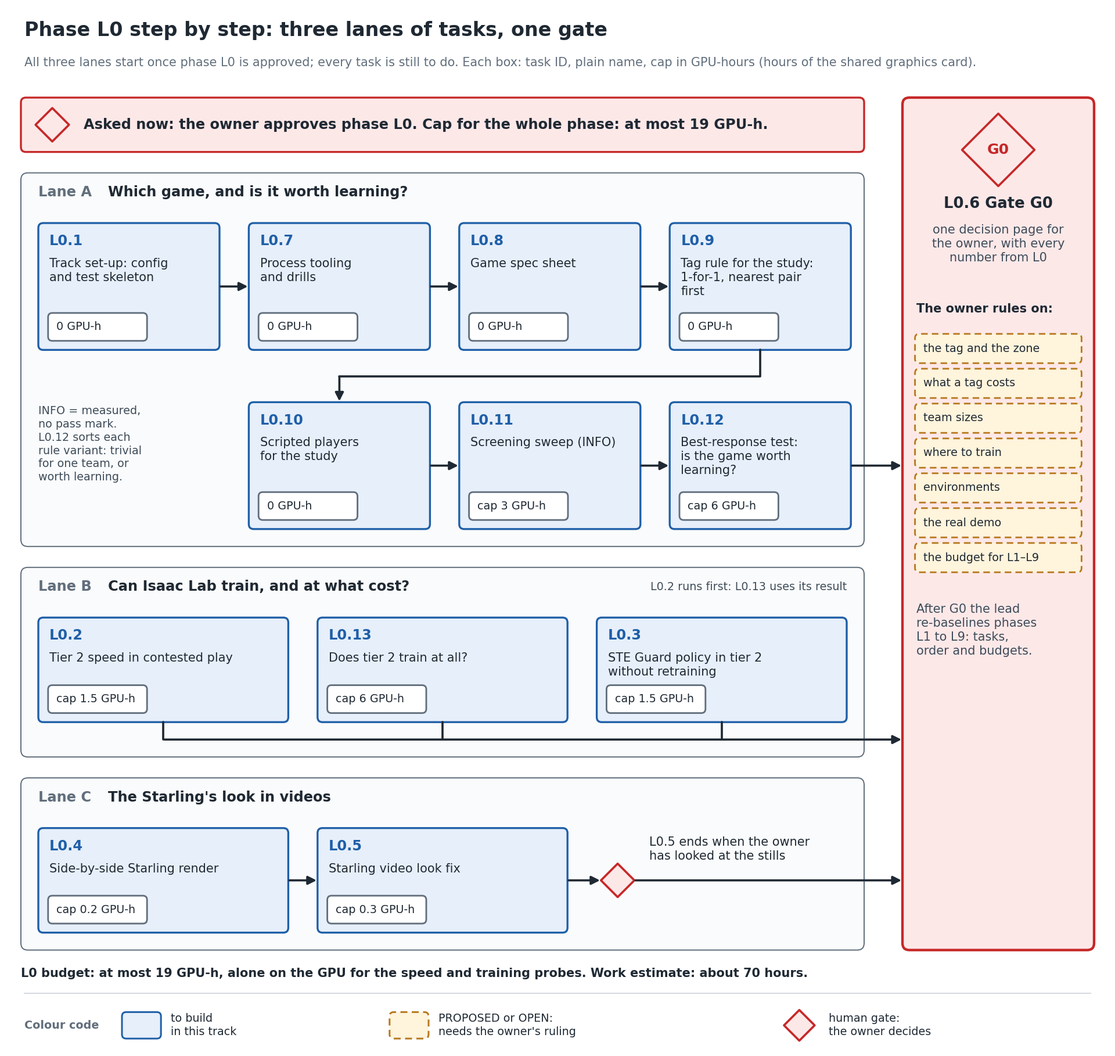
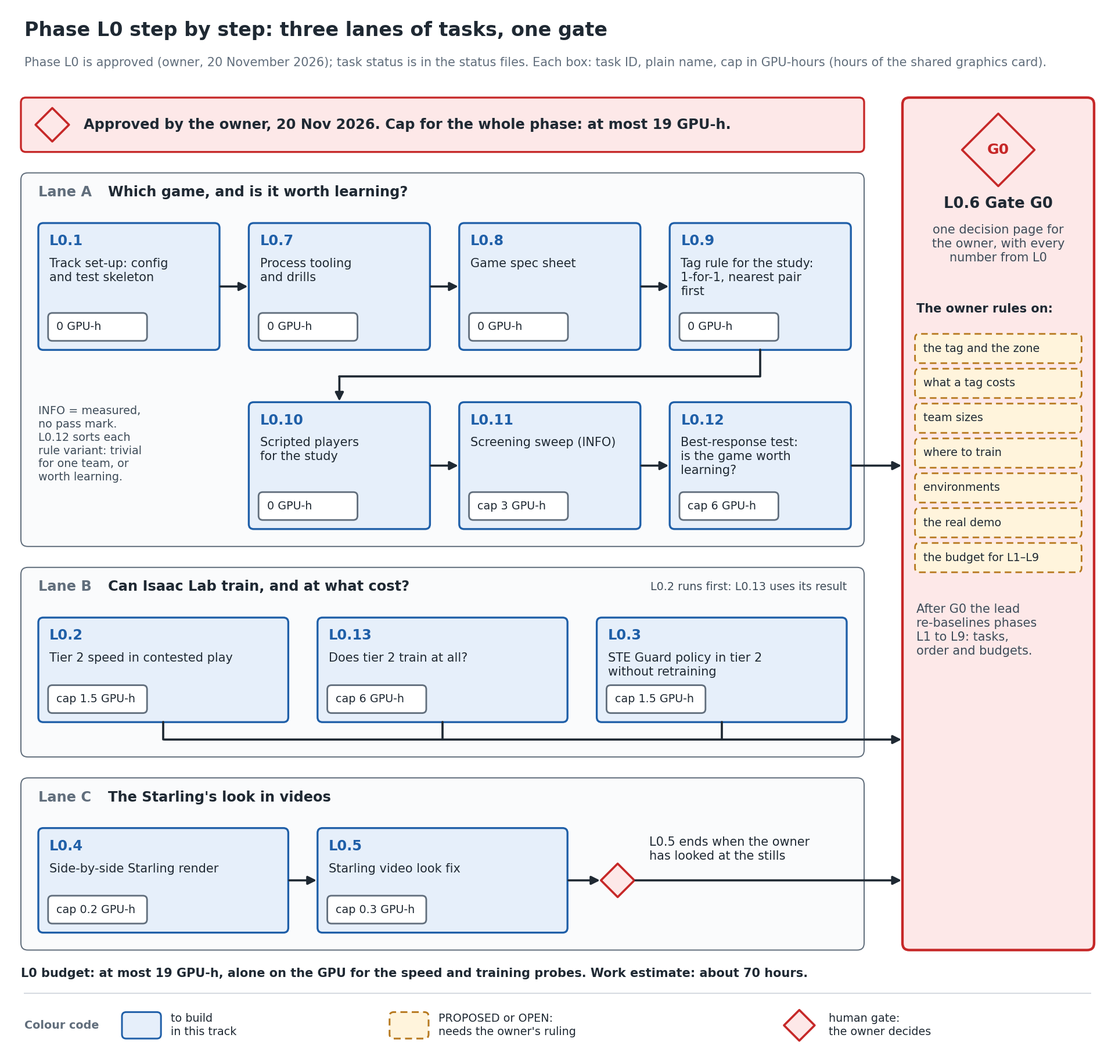
STE learning track: phase L0 approved (owner, 20 Nov 2026); links from the front pages
The owner approved phase L0 (game definition and feasibility, cap 19 GPU-h) on
20 Nov 2026. The approval covers L0 only: no later phase and no PROPOSED value.

- ste_learning/README.md, PLAN.md, the two flowcharts (plan_phases, l0_tasks),
  svg_training/CLAUDE.md and HANDOFF section 0 now say "approved" in place of
  "awaits approval"; the first status file (status/STATUS_LATEST.md, LOG.md)
  is written in the owner's three-table format.
- svg_training/README.md section 7: the stale "decision pending" sentence is
  replaced by a pointer to ste_learning/.
- Outside svg_training/ (owner-approved, 20 Nov 2026): README.md gets one row
  in "I want to..." and one sentence in its svg_training/ row, both pointing at
  svg_training/ste_learning/README.md. Nothing else outside the folder changes.

No code path, config value, gate or result changes.

Changed region(s): [[0.0938, 0.0924, 0.6875, 0.1232], [0.4375, 0.0308, 0.8438, 0.0616], [0.0312, 0.0308, 0.375, 0.0616]]

diff --git a/svg_training/scripts/make_ste_learning_figures.py b/svg_training/scripts/make_ste_learning_figures.py
@@ -341,7 +341,7 @@ def architecture() -> Path:
 def plan_phases() -> Path:
     """The plan: phases L0 to L9 (PLAN.md section 3), the simulator each uses and where each ends.
 
-    L0 is final and awaits approval; L1 to L9 are the intended path, re-baselined at gate G0 with budgets OPEN;
+    L0 is final and approved (owner, 20 Nov 2026); L1 to L9 are the intended path, re-baselined at gate G0 with budgets OPEN;
     L9 (documentation) already runs alongside. The L0 cap of 19 GPU-h is PLAN section 9.
     """
     rows = [  # id, name, content, simulator, ends at, kind, owner gate?
@@ -367,8 +367,8 @@ def plan_phases() -> Path:
     H = 20.0
     fig, ax = new_fig(H)
     header(ax, H, "The plan: phases L0 to L9, their simulators and their gates",
-           "Phase L0 is final and awaits the owner's approval. L1 to L9 are the intended path; "
-           "L9 (documentation) already runs. No build or training work has started.")
+           "Phase L0 is approved (owner, 20 November 2026) and is the phase in work. L1 to L9 are the intended "
+           "path; L9 (documentation) already runs. Task status: the status files.")
     px, pw, sx, sw, gx = 0.6, 8.2, 9.05, 3.2, 12.5
     spine = px + 0.55
 
@@ -388,7 +388,7 @@ def plan_phases() -> Path:
             ax.add_patch(plt.Circle((gx + 0.3, yb + h / 2), 0.13, fc=GREY_BG, ec=GREY, lw=1.8))
         txt(ax, gx + 0.72, yb + h / 2, s, fb, color=INK if owner else BODY, va="center")
 
-    def phase_cell(yb, h, kind, pid, name, content, badge=None):
+    def phase_cell(yb, h, kind, pid, name, content, badge=None, badge_kind="open"):
         fc, ec, ls = KIND[kind]
         box(ax, px, yb, pw, h, fc, ec, lw=2.0, ls=ls)
         box(ax, px + 0.15, yb + h - 0.56, 0.78, 0.42, ec, ec, r=0.08, lw=1.0)
@@ -397,23 +397,23 @@ def plan_phases() -> Path:
         txt(ax, px + 1.1, yb + h - 0.63, content, fb, color=BODY, inside=(px, yb, pw, h))
         if badge:
             bw = 3.0
-            chip(ax, px + pw - bw - 0.15, yb + h - 0.56, bw, 0.42, "open", badge, weight="bold")
+            chip(ax, px + pw - bw - 0.15, yb + h - 0.56, bw, 0.42, badge_kind, badge, weight="bold")
 
-    # asked now
+    # approved (owner, 20 Nov 2026)
     h0 = 0.72
     y -= h0
     box(ax, px, y, pw, h0, RED_BG, RED, lw=2.0)
-    txt(ax, px + 0.2, y + h0 / 2, "Asked now: approve phase L0, with a cap of 19 GPU-h", fh, "bold", va="center",
+    txt(ax, px + 0.2, y + h0 / 2, "Approved, 20 Nov 2026: phase L0, with a cap of 19 GPU-h", fh, "bold", va="center",
         inside=(px, y, pw, h0))
-    gate_cell(y, h0, "the owner approves\nphase L0", True)
+    gate_cell(y, h0, "the owner approved\nphase L0", True)
     prev = y
 
     # L0
     hl0 = 1.3
     y -= gap + 0.12 + hl0
-    phase_cell(y, hl0, "open", "L0", "Game definition and feasibility",
+    phase_cell(y, hl0, "build", "L0", "Game definition and feasibility",
                "which game the track trains; is it worth learning;\ncan Isaac Lab train, and at what cost",
-               badge="FINAL, awaiting approval")
+               badge="APPROVED, in work", badge_kind="build")
     sim_cell(y, hl0, "STE game engine (tier 1)\nand Isaac Lab (tier 2)")
     gate_cell(y, hl0, "gate G0", True)
     arrow(ax, (spine, prev), (spine, y + hl0))
@@ -474,7 +474,7 @@ def l0_tasks() -> Path:
     H = 15.15
     fig, ax = new_fig(H)
     header(ax, H, "Phase L0 step by step: three lanes of tasks, one gate",
-           "All three lanes start once phase L0 is approved; every task is still to do. "
+           "Phase L0 is approved (owner, 20 November 2026); task status is in the status files. "
            "Each box: task ID, plain name, cap in GPU-hours (hours of the shared graphics card).")
     lx, lw_ = 0.3, 12.1          # lanes
     gx, gw = 12.95, 2.75         # gate column
@@ -494,11 +494,11 @@ def l0_tasks() -> Path:
         txt(ax, lx + 0.25, y_top - 0.18, title, FS_H, "bold", MUTED)
         txt(ax, lx + 1.25, y_top - 0.18, question, FS_H, "bold")
 
-    # asked now
+    # approved (owner, 20 Nov 2026)
     h0 = 0.78
     box(ax, lx, top - h0, lw_, h0, RED_BG, RED, lw=2.0)
     diamond(ax, lx + 0.45, top - h0 / 2, 0.24)
-    txt(ax, lx + 0.9, top - h0 / 2, "Asked now: the owner approves phase L0. Cap for the whole phase: at most "
+    txt(ax, lx + 0.9, top - h0 / 2, "Approved by the owner, 20 Nov 2026. Cap for the whole phase: at most "
         "19 GPU-h.", FS_H, "bold", va="center", inside=(lx, top - h0, lw_, h0))
 
     # lane A: two rows of four and three

diff --git a/svg_training/docs/claude/HANDOFF.md b/svg_training/docs/claude/HANDOFF.md
@@ -4,7 +4,7 @@ INTERNAL · the lab's AI-assistant hand-over notes. Not needed to read or run an
 
 > **How to use this file.** Read it at the start of a session, after [../../CLAUDE.md](../../CLAUDE.md).
 > §4 is the current state, §5 is what is waiting on people. Update both before you stop.
-> Last updated: 20 November 2026, on the home RTX 5090 (STE learning track note at the top of §0; laptop takeover note below it), worktree `~/AirStack-starling-max2-naming`, branch `docs-naming` (owner-approved naming and story pass on the public docs; committed, not pushed, not merged). Before: 19 November 2026, ~00:30, on the home RTX 5090, release worktree `~/AirStack-starling-max2-release`, branch `nus-release` (plain-laptop CPU route: code fixes C1–C9 and the PROVISIONAL bundle `nus_provisional/`, owner decision 6; committed, not pushed). Before: 18 November 2026, ~15:15, on the home RTX 5090, NUS-port worktree `~/AirStack-starling-max2-nus-port`, branch `phase6-pass2` (Phase 6 pass 2B: **Phase 4 complete**, its results written into every doc, every NUS-port clip published, the hangar size restored, the Phase 5 plan described; uncommitted, the lead commits). Before: ~06:45, on the home RTX 5090, integration worktree `main-5090` (Phase 6 pass 1: public NUS docs, privacy rails rewritten to the owner's decision, Claude files touched up; Phase 4 rows 4–6 running). Before: ~05:30 (Phase 4: T17 PASS, rungs 1 to 3 scored, rungs 4 to 6 not run). Before: ~01:00 (Phase 3 T16 PASS). Before: 17 November 2026, ~22:30, on the home RTX 5090 (evening summary in §0). Before: ~07:00 (morning summary in §0). Before: ~05:30 (S2b Tasks 1–8 done (T13 FAIL, over/under passing), 9 Isaac seeds running, 10 docs being written, 8b deferred; see §0 S2b line). Before: ~03:00. Earlier: 16 November morning (**S2 CLOSED**: final whole-stage review done on Opus, one fix wave 4d0d409, wording c218cbb; owner ruled A and B; S2b plan approved and ready to start).
+> Last updated: 20 November 2026 ~12:30, on the home RTX 5090 (the owner approved phase L0 of the STE learning track: note at the top of §0; laptop takeover note below it), worktree `~/AirStack-starling-max2-naming`, branch `docs-naming` (owner-approved naming and story pass on the public docs; committed, not pushed, not merged). Before: 19 November 2026, ~00:30, on the home RTX 5090, release worktree `~/AirStack-starling-max2-release`, branch `nus-release` (plain-laptop CPU route: code fixes C1–C9 and the PROVISIONAL bundle `nus_provisional/`, owner decision 6; committed, not pushed). Before: 18 November 2026, ~15:15, on the home RTX 5090, NUS-port worktree `~/AirStack-starling-max2-nus-port`, branch `phase6-pass2` (Phase 6 pass 2B: **Phase 4 complete**, its results written into every doc, every NUS-port clip published, the hangar size restored, the Phase 5 plan described; uncommitted, the lead commits). Before: ~06:45, on the home RTX 5090, integration worktree `main-5090` (Phase 6 pass 1: public NUS docs, privacy rails rewritten to the owner's decision, Claude files touched up; Phase 4 rows 4–6 running). Before: ~05:30 (Phase 4: T17 PASS, rungs 1 to 3 scored, rungs 4 to 6 not run). Before: ~01:00 (Phase 3 T16 PASS). Before: 17 November 2026, ~22:30, on the home RTX 5090 (evening summary in §0). Before: ~07:00 (morning summary in §0). Before: ~05:30 (S2b Tasks 1–8 done (T13 FAIL, over/under passing), 9 Isaac seeds running, 10 docs being written, 8b deferred; see §0 S2b line). Before: ~03:00. Earlier: 16 November morning (**S2 CLOSED**: final whole-stage review done on Opus, one fix wave 4d0d409, wording c218cbb; owner ruled A and B; S2b plan approved and ready to start).
 
 ## 0. Resume here (for a new session or another Claude account)
 
@@ -12,7 +12,7 @@ Everything needed is in this folder; nothing depends on the previous chat. Claud
 the private NUS workspace (`~/ma_skills-self-play/`, 5090 only) do **not** travel with git: if this file and a memory
 note disagree, this file wins.
 
-### STE LEARNING TRACK PLANNED, 20 November 2026 — read this first for anything after the NUS port
+### STE LEARNING TRACK: PHASE L0 APPROVED, 20 November 2026 — read this first for anything after the NUS port
 
 The owner set a new direction on 19–20 Nov: **STE trains its own Guard and Strike policies, in parallel with NUS**
 (the NUS route is paused, lead call D8). Everything is in [`ste_learning/`](../../ste_learning/README.md): the README (what is
@@ -20,9 +20,14 @@ being built, the plan, phase L0 step by step, four flowcharts), `PLAN.md` (versi
 review), `DISCUSSION_2026-11-19_20.md` (every question, decision D1–D9 and open item P1–P12), the track's STANDARDS,
 reference pages and five agents (`ste-*`, copied into `.claude/agents/`).
 
-- **State:** nothing built, nothing run. **Phase L0 (game definition and feasibility, cap 19 GPU-h) awaits the owner's
-  approval**; it ends at gate G0, where the owner rules on the tag and zone, what a tag costs, team sizes, where to
+- **State:** **phase L0 (game definition and feasibility, cap 19 GPU-h) APPROVED by the owner, 20 Nov 2026** (L0 only:
+  no later phase, no PROPOSED value); task status in `ste_learning/status/STATUS_LATEST.md`. L0 ends at gate G0, where the owner rules on the tag and zone, what a tag costs, team sizes, where to
   train, environments, the demo and the L1–L9 budget.
+- **Links (owner, 20 Nov 2026):** the root `README.md` ("I want to…" row and one sentence in its `svg_training/` row) and
+  the training `README.md` §7 now point at `ste_learning/README.md`. The root `CLAUDE.md` row for this folder still says
+  "Phase 5 planned": not approved for change, proposed to the owner.
+- **Status files:** `ste_learning/status/STATUS_LATEST.md` (overwritten) and `LOG.md` (append-only), first written 20 Nov.
+- **Heartbeat:** the owner did not answer the heartbeat question; the standing rule holds (full status every 30 min).
 - **Why L0 exists:** the review found that the proposed rules (1.6 m proximity tag, 1-for-1) may let head-count decide
   the game, that the zone radius equals the tag radius, that the programme's sizes are 2v1 and 5v3 (not 3v3), and that
   tier 2 has never trained anything (PLAN §2, F1–F10).

diff --git a/svg_training/CLAUDE.md b/svg_training/CLAUDE.md
@@ -6,8 +6,8 @@ Training pipeline for the **Strike vs Guard** game: thousands of games run at on
 drone teams can learn strategies that then fly through AirStack on Starling 2 Max drones.
 It is a sibling of `AirStack/`, `tools/` and `localisation/`, and it edits none of them.
 
-**Status (2026-11-19).** S0, S1 and S2 closed; S2b built through Task 8, not closed; NUS port Phases 1–4 done,
-Phase 5 in progress (R0 T29, N0 T30 and C0 T33 PASS; 5.1 FAIL T43: route (b) stops; STE Guard policy T41 829/1000); **STE's own learning track planned (20 Nov): phase L0 awaits the owner's approval, nothing built or run ([ste_learning/](ste_learning/README.md))**; nothing of ours trained into a strategy; nothing flown.
+**Status (2026-11-20).** S0, S1 and S2 closed; S2b built through Task 8, not closed; NUS port Phases 1–4 done,
+Phase 5 in progress (R0 T29, N0 T30 and C0 T33 PASS; 5.1 FAIL T43: route (b) stops; STE Guard policy T41 829/1000); **STE's own learning track: phase L0 approved by the owner (20 Nov, cap 19 GPU-h), in work; status in `ste_learning/status/STATUS_LATEST.md` ([ste_learning/](ste_learning/README.md))**; nothing of ours trained into a strategy; nothing flown.
 
 | Work | Where it stands | Read |
 |---|---|---|
@@ -26,7 +26,7 @@ Phase 5 in progress (R0 T29, N0 T30 and C0 T33 PASS; 5.1 FAIL T43: route (b) sto
 | [docs/README.md](docs/README.md) | map of every page with its label (Read, Reference, Lab operations, Internal) and the history |
 | [docs/WHAT_WE_FOUND.md](docs/WHAT_WE_FOUND.md), [docs/RUN_IT_YOURSELF.md](docs/RUN_IT_YOURSELF.md), [docs/TRAIN_A_GUARD.md](docs/TRAIN_A_GUARD.md) | the NUS port's results; the verified run-it-yourself commands; the recipe behind the STE Guard policy (T41) |
 | [docs/claude/HANDOFF.md](docs/claude/HANDOFF.md) | where the work stands, what was decided, what is waiting on whom |
-| [ste_learning/](ste_learning/README.md) | **STE's own learning track** (owner, 20 Nov 2026): README with flowcharts, [PLAN](ste_learning/PLAN.md) (the working plan: phase L0 final, gate G0, L1–L9 intended), [DISCUSSION](ste_learning/DISCUSSION_2026-11-19_20.md) (why; D1–D9, P1–P12), the track's STANDARDS, ARCHITECTURE, CODING_PRACTICES, AUTOMATION, VALIDATION_QC, and its agents (`ste-*`). Read it before any work on the track; consult the advisor at every key point (owner) |
+| [ste_learning/](ste_learning/README.md) | **STE's own learning track** (owner, 20 Nov 2026): README with flowcharts, [PLAN](ste_learning/PLAN.md) (the working plan: phase L0 approved 20 Nov, gate G0, L1–L9 intended), [DISCUSSION](ste_learning/DISCUSSION_2026-11-19_20.md) (why; D1–D9, P1–P12), the track's STANDARDS, ARCHITECTURE, CODING_PRACTICES, AUTOMATION, VALIDATION_QC, and its agents (`ste-*`). Read it before any work on the track; consult the advisor at every key point (owner) |
 | [STANDARDS.md](STANDARDS.md) | **the rules**: scope, wording, policy interface, game specification, drone models, gates, records, code, git |
 | [docs/DESIGN.md](docs/DESIGN.md) | the design: seven stages, two tiers, four uses, environments and contact tags, build order S0–S5, approaches considered |
 | [docs/RESEARCH.md](docs/RESEARCH.md) | state of the art as of 14 November 2026, with sources; the evidence behind the design |
@@ -133,6 +133,8 @@ needs is in this folder's committed files (HANDOFF first).
   else outside this folder.
   Approved (owner, 18 November 2026): a one-line banner under the root `README.md`'s H1 pointing at
   `svg_training/README.md` (option A text).
+  Approved (owner, 20 November 2026): one more row in the root `README.md` "I want to…" table and one sentence in its
+  `svg_training/` row, both pointing at `ste_learning/README.md`.
 - Ledger rows written on the 5090 are W numbers; the lead renumbers them to the next T numbers at merge
   (records/README.md explains this to readers).
 - Reader pages (label Read in docs/README.md): neutral and factual, like a short technical report; no "you"/"your" and no

diff --git a/svg_training/ste_learning/PLAN.md b/svg_training/ste_learning/PLAN.md
@@ -1,6 +1,7 @@
 INTERNAL · the master plan of STE's learning track, version 2 (20 Nov 2026, after the independent soundness review).
-**Phase L0 is final and awaits the owner's approval. Phases L1–L9 are the intended path; they are re-baselined at gate
-G0, the end of L0, and their budgets are OPEN.** Nothing has started. Where this page and a reference page differ,
+**Phase L0 is final and APPROVED (owner, 20 Nov 2026: L0 only, cap 19 GPU-h). Phases L1–L9 are the intended path; they
+are re-baselined at gate G0, the end of L0, and their budgets are OPEN.** The approval covers no PROPOSED value (the
+1.6 m tag, the 0.2 band) and no phase after L0. Task status: `status/STATUS_LATEST.md`. Where this page and a reference page differ,
 this page wins. Why each choice: [DISCUSSION](DISCUSSION_2026-11-19_20.md).
 
 # PLAN: STE learning track
@@ -65,7 +66,7 @@ asked to be stopped for.
 
 | Phase | Status | What | Math library | Simulator | Ends at |
 |---|---|---|---|---|---|
-| **L0 Game definition and feasibility** | **FINAL, awaiting approval** | which game the track trains; is it worth learning; can tier 2 train, and at what cost | PyTorch | STE game engine (tier 1), Isaac Lab (tier 2) | **gate G0**: the owner rules on the game and the route, with numbers |
+| **L0 Game definition and feasibility** | **APPROVED (owner, 20 Nov 2026), in work** | which game the track trains; is it worth learning; can tier 2 train, and at what cost | PyTorch | STE game engine (tier 1), Isaac Lab (tier 2) | **gate G0**: the owner rules on the game and the route, with numbers |
 | L1 Drone model | intended | estimator effect (delay + noise), drag, fit to logs, comparison with the AirStack simulator | PyTorch | Isaac Lab (tier 2), AirStack simulator (logs only) | lead (exploratory until the NEAR-962 flight) |
 | L2 Game rules in the training copy | intended | the rules chosen at G0, landing obstacles, drone loss, filter option B with its convergence gate | PyTorch | tier 1, then tier 2 | gate per change; **P2 ruling** |
 | L3 Learner | intended | observation v0.3, attention encoder, shared actor, team critic, PPO | PyTorch | tier 1 pilot, tier 2 smoke | owner approves observation v0.3 |
@@ -201,7 +202,7 @@ every 2 hours (PROPOSED; the owner may prefer the full update regardless). Templ
 ## 11. Commits, merges and documents
 
 - This folder is on `main` (the owner asked for the documentation there, 20 Nov). It holds no NUS source, names or
-  private messages. Nothing in it runs: L0 starts only on the owner's approval.
+  private messages. L0 was approved by the owner on 20 Nov 2026; no later phase starts without its own approval.
 - Code, tests, records and ledger rows are ff-merged to `main` by the lead after QC. Reader pages go to `main` only
   with the owner's yes.
 - Status files are committed at session end. HANDOFF §0 gets a dated line per session.
@@ -212,8 +213,8 @@ every 2 hours (PROPOSED; the owner may prefer the full update regardless). Templ
 
 | # | Question | Recommendation |
 |---|---|---|
-| 1 | Approve phase L0 (game definition and feasibility) with a cap of 19 GPU-h, alone on the GPU for its probes? | yes |
-| 2 | Heartbeat when everything waits on you: the full update every 30 min, or one line every 2 h? | one line every 2 h |
+| 1 | Approve phase L0 (game definition and feasibility) with a cap of 19 GPU-h, alone on the GPU for its probes? | yes. **ANSWER: approved (owner, 20 Nov 2026)** |
+| 2 | Heartbeat when everything waits on you: the full update every 30 min, or one line every 2 h? | one line every 2 h. **ANSWER: none; the standing rule holds (full update every 30 min)** |
 
 The merge of this folder to `main`, with its README, flowcharts and agent files, was asked for by the owner on 20 Nov
 and is done with this version.

diff --git a/svg_training/ste_learning/status/LOG.md b/svg_training/ste_learning/status/LOG.md
@@ -1,0 +1,53 @@
+INTERNAL · every status of STE's own learning track, oldest first, one dated heading per update; append-only.
+
+## 2026-11-20 12:25
+
+**Status, 2026-11-20 12:25 (+08:00), event: human gate passed (the owner approved phase L0)** · GPU 11 % / 57 W / 2.4 GB of 32 GB · 0 training processes (0 paused) · RTX 5090
+
+### Phases
+
+| Phase | Status | Math library | Simulator | What |
+|---|---|---|---|---|
+| ▶ L0 Game definition and feasibility | RUNNING (approved by the owner 20 Nov 2026, cap 19 GPU-h) | PyTorch | tier 1 fast engine, tier 2 Isaac Lab | which game the track trains; is it worth learning; can tier 2 train, and at what cost |
+| L1 Drone model | NOT STARTED | PyTorch | tier 2 Isaac Lab; AirStack simulator logs | estimator effect, drag, fit to flight logs |
+| L2 Game rules in the training copy | NOT STARTED | PyTorch | tier 1 fast engine, then tier 2 Isaac Lab | the rules chosen at gate G0, landing, drone loss, filter option B |
+| L3 Learner | NOT STARTED | PyTorch | tier 1 fast engine, tier 2 Isaac Lab | observation version 0.3, shared policy, team critic, PPO |
+| L4 Evaluation suite and gates | NOT STARTED | PyTorch | tier 1 fast engine, tier 2 Isaac Lab | test suite, gates file, calibration on known players |
+| L5 League self-play | NOT STARTED | PyTorch | as ruled at gate G0 | pilots, then the runs of record with 3 seeds |
+| L6 QC and export | NOT STARTED | PyTorch | tier 1 fast engine, tier 2 Isaac Lab | scoring, cross-checks, the policy file |
+| L7 AirStack side | NOT STARTED | none | AirStack simulator | specifications here; built and played by an AirStack session |
+| L8 Real flight | NOT STARTED | none | real flight | a real 1v1 game |
+| L9 Documentation | RUNNING | none | none | status, records, results page |
+
+L1 to L9 are the intended path; their tasks and budgets are set again at gate G0.
+
+### Phase L0 Game definition and feasibility, task by task
+
+| ID | Plain name | Status | Simulator | Result / ETA |
+|---|---|---|---|---|
+| L0.1 | Track set-up: config and test skeleton | NOT STARTED | none | next; cap 0 GPU-h |
+| L0.7 | Process tooling and drills | NOT STARTED | none | after L0.1; cap 0 GPU-h |
+| L0.8 | Game spec sheet | NOT STARTED | none | after L0.7; cap 0 GPU-h |
+| L0.9 | Tag rule for the study: 1-for-1, nearest pair first | NOT STARTED | tier 1 fast engine | after L0.8; cap 0 GPU-h |
+| L0.10 | Scripted players for the study | NOT STARTED | tier 1 fast engine | after L0.9; cap 0 GPU-h |
+| L0.11 | Screening sweep (INFO) | NOT STARTED | tier 1 fast engine | after L0.10; cap 3 GPU-h |
+| L0.12 | Best-response test: is the game worth learning? | NOT STARTED | tier 1 fast engine | after L0.11; cap 6 GPU-h |
+| L0.2 | Tier 2 speed in contested play | NOT STARTED | tier 2 Isaac Lab | after L0.7; cap 1.5 GPU-h |
+| L0.13 | Does tier 2 train at all? | NOT STARTED | tier 2 Isaac Lab | after L0.2; cap 6 GPU-h |
+| L0.3 | STE Guard policy in tier 2 without retraining | NOT STARTED | tier 2 Isaac Lab | after L0.2; cap 1.5 GPU-h |
+| L0.4 | Side-by-side Starling render | NOT STARTED | tier 2 Isaac Lab | cap 0.2 GPU-h |
+| L0.5 | Starling video look fix | NOT STARTED | tier 2 Isaac Lab | after L0.4; cap 0.3 GPU-h |
+| L0.6 | Gate G0 | NOT STARTED | none | after every task above; the owner decides |
+
+GPU-h used in L0 so far: 0 of 19.
+
+### Other workstreams
+
+| ID | Plain name | Status |
+|---|---|---|
+| DOC-1 | Links to the track from the repository's front page and the training front page | DONE |
+| DOC-2 | Track pages and figures say "L0 approved" | DONE |
+
+**Next.** L0.1 Track set-up: config and test skeleton (starts now, CPU only); then L0.7 Process tooling and drills and L0.8 Game spec sheet.
+
+**Waiting on you.** Nothing until gate G0.

diff --git a/svg_training/ste_learning/status/STATUS_LATEST.md b/svg_training/ste_learning/status/STATUS_LATEST.md
@@ -1,0 +1,51 @@
+INTERNAL · the latest status of STE's own learning track, overwritten at every update; the history is in [LOG.md](LOG.md).
+
+**Status, 2026-11-20 12:25 (+08:00), event: human gate passed (the owner approved phase L0)** · GPU 11 % / 57 W / 2.4 GB of 32 GB · 0 training processes (0 paused) · RTX 5090
+
+## Phases
+
+| Phase | Status | Math library | Simulator | What |
+|---|---|---|---|---|
+| ▶ L0 Game definition and feasibility | RUNNING (approved by the owner 20 Nov 2026, cap 19 GPU-h) | PyTorch | tier 1 fast engine, tier 2 Isaac Lab | which game the track trains; is it worth learning; can tier 2 train, and at what cost |
+| L1 Drone model | NOT STARTED | PyTorch | tier 2 Isaac Lab; AirStack simulator logs | estimator effect, drag, fit to flight logs |
+| L2 Game rules in the training copy | NOT STARTED | PyTorch | tier 1 fast engine, then tier 2 Isaac Lab | the rules chosen at gate G0, landing, drone loss, filter option B |
+| L3 Learner | NOT STARTED | PyTorch | tier 1 fast engine, tier 2 Isaac Lab | observation version 0.3, shared policy, team critic, PPO |
+| L4 Evaluation suite and gates | NOT STARTED | PyTorch | tier 1 fast engine, tier 2 Isaac Lab | test suite, gates file, calibration on known players |
+| L5 League self-play | NOT STARTED | PyTorch | as ruled at gate G0 | pilots, then the runs of record with 3 seeds |
+| L6 QC and export | NOT STARTED | PyTorch | tier 1 fast engine, tier 2 Isaac Lab | scoring, cross-checks, the policy file |
+| L7 AirStack side | NOT STARTED | none | AirStack simulator | specifications here; built and played by an AirStack session |
+| L8 Real flight | NOT STARTED | none | real flight | a real 1v1 game |
+| L9 Documentation | RUNNING | none | none | status, records, results page |
+
+L1 to L9 are the intended path; their tasks and budgets are set again at gate G0.
+
+## Phase L0 Game definition and feasibility, task by task
+
+| ID | Plain name | Status | Simulator | Result / ETA |
+|---|---|---|---|---|
+| L0.1 | Track set-up: config and test skeleton | NOT STARTED | none | next; cap 0 GPU-h |
+| L0.7 | Process tooling and drills | NOT STARTED | none | after L0.1; cap 0 GPU-h |
+| L0.8 | Game spec sheet | NOT STARTED | none | after L0.7; cap 0 GPU-h |
+| L0.9 | Tag rule for the study: 1-for-1, nearest pair first | NOT STARTED | tier 1 fast engine | after L0.8; cap 0 GPU-h |
+| L0.10 | Scripted players for the study | NOT STARTED | tier 1 fast engine | after L0.9; cap 0 GPU-h |
+| L0.11 | Screening sweep (INFO) | NOT STARTED | tier 1 fast engine | after L0.10; cap 3 GPU-h |
+| L0.12 | Best-response test: is the game worth learning? | NOT STARTED | tier 1 fast engine | after L0.11; cap 6 GPU-h |
+| L0.2 | Tier 2 speed in contested play | NOT STARTED | tier 2 Isaac Lab | after L0.7; cap 1.5 GPU-h |
+| L0.13 | Does tier 2 train at all? | NOT STARTED | tier 2 Isaac Lab | after L0.2; cap 6 GPU-h |
+| L0.3 | STE Guard policy in tier 2 without retraining | NOT STARTED | tier 2 Isaac Lab | after L0.2; cap 1.5 GPU-h |
+| L0.4 | Side-by-side Starling render | NOT STARTED | tier 2 Isaac Lab | cap 0.2 GPU-h |
+| L0.5 | Starling video look fix | NOT STARTED | tier 2 Isaac Lab | after L0.4; cap 0.3 GPU-h |
+| L0.6 | Gate G0 | NOT STARTED | none | after every task above; the owner decides |
+
+GPU-h used in L0 so far: 0 of 19.
+
+## Other workstreams
+
+| ID | Plain name | Status |
+|---|---|---|
+| DOC-1 | Links to the track from the repository's front page and the training front page | DONE |
+| DOC-2 | Track pages and figures say "L0 approved" | DONE |
+
+**Next.** L0.1 Track set-up: config and test skeleton (starts now, CPU only); then L0.7 Process tooling and drills and L0.8 Game spec sheet.
+
+**Waiting on you.** Nothing until gate G0.

diff --git a/svg_training/ste_learning/README.md b/svg_training/ste_learning/README.md
@@ -16,7 +16,9 @@ The goal is a pair of policies that play under rules that can fly, keep the team
 against attackers they did not train against. They are then checked in the AirStack simulator (the flight
 software's own simulator) and in a real one-against-one (1v1) flight, each with the owner's approval.
 
-**Nothing in this track has been built or run yet.** Phase L0 is final and awaits the owner's approval.
+**Phase L0 was approved by the owner on 20 November 2026, with a cap of 19 GPU-h.** The approval covers L0 only:
+phases L1 to L9 and every PROPOSED value stay open until their own gates. Task-by-task status:
+[status/STATUS_LATEST.md](status/STATUS_LATEST.md).
 
 ## Where it stands
 
@@ -43,8 +45,8 @@ for the owner's ruling. D and P numbers are rows of the [discussion record](DISC
 Two technical calls were made by the lead (the main Claude session) and recorded: the drone's estimator is modelled
 as a delay plus noise first (D7), and work on NUS's training recipe is paused (D8); this track does not depend on it.
 
-**The first gate.** The owner is asked to approve phase L0 now. L0 ends at gate G0, where the owner rules on the game
-and the route with L0's numbers.
+**The first gate.** Phase L0 is approved (owner, 20 November 2026). It ends at gate G0, where the owner rules on the
+game and the route with L0's numbers.
 
 ## What is being built
 
@@ -85,9 +87,9 @@ This is tried in the AirStack simulator first, then in a real 1v1 flight with tw
 
 ## The plan
 
-![Roadmap of phases L0 to L9 with the simulator each uses and where each ends: approval of L0 is asked now; L0 ends at gate G0, where the owner rules on the game and the route; L1 to L8 are the intended path with budgets open; L9, documentation, runs alongside](figures/plan_phases.png)
+![Roadmap of phases L0 to L9 with the simulator each uses and where each ends: L0 was approved by the owner on 20 November 2026; L0 ends at gate G0, where the owner rules on the game and the route; L1 to L8 are the intended path with budgets open; L9, documentation, runs alongside](figures/plan_phases.png)
 
-Phase L0 is final. Phases L1 to L9 are the intended path: their tasks, order and budgets are set again at gate G0.
+Phase L0 is final and approved. Phases L1 to L9 are the intended path: their tasks, order and budgets are set again at gate G0.
 L9, documentation, already runs alongside.
 
 Terms in the table: a *pilot* is a short trial run; a *smoke test* is a very short run that only checks the code
@@ -263,10 +265,12 @@ not maintained.
 
 ## What is asked of the owner now
 
-| # | Question | Recommendation |
+Nothing until gate G0. The two questions asked on 20 November 2026:
+
+| # | Question | Answer |
 |---|---|---|
-| 1 | Approve phase L0, with a cap of 19 GPU-h, alone on the GPU for its probes? | yes |
-| 2 | When everything waits on the owner: the full status every 30 minutes, or one line every 2 hours? | one line every 2 hours |
+| 1 | Approve phase L0, with a cap of 19 GPU-h, alone on the GPU for its probes? | **approved** (owner, 20 November 2026) |
+| 2 | When everything waits on the owner: the full status every 30 minutes, or one line every 2 hours? | not answered; the standing rule holds: the full status every 30 minutes |
 
 Everything else is ruled at its own gate, with numbers: the tag and the zone, what a tag costs, team sizes, where to
 train, environments, the demo, the budgets of L1 to L9, filter option B and the AirStack approach.

diff --git a/README.md b/README.md
@@ -31,6 +31,7 @@ three-drone swarms rehearsed in **Isaac Sim** before anything flies for real.
 | **work with the AI assistant on this repo** | [AI_ASSIST.md](docs/AI_ASSIST.md) |
 | **fly in the construction site** (sim): the scored camera run, or drone_1 yourself by keyboard | [localisation/README.md](localisation/README.md), its first table picks the run |
 | **train or test drone-team strategies** (Strike vs Guard game, in simulation; nothing here flies a drone) | [svg_training/README.md](svg_training/README.md): what was done, results and videos. Then: [What we found](svg_training/docs/WHAT_WE_FOUND.md) · [Train a Guard](svg_training/docs/TRAIN_A_GUARD.md) · [Videos](svg_training/docs/media/nus/README.md) |
+| **see the plan for STE's own Guard and Strike training** (STE's learning track; simulation only) | [svg_training/ste_learning/README.md](svg_training/ste_learning/README.md): what is being built, the plan and its first phase, with flowcharts; the current status is on that page |
 | **set up the training pipeline** (any laptop for a CPU try; an NVIDIA GPU or Isaac Lab for full size) | [Run it yourself](svg_training/docs/RUN_IT_YOURSELF.md): levels A–F by hardware, each with its commands. Full machine setup: [GETTING_STARTED](svg_training/docs/GETTING_STARTED.md) |
 
 ## What we have achieved so far
@@ -98,7 +99,7 @@ Milestone by milestone, with evidence: [record/LEDGER.md](docs/record/LEDGER.md)
 | [GLOSSARY.md](docs/GLOSSARY.md) · [AI_ASSIST.md](docs/AI_ASSIST.md) | Terms · working with the assistant |
 | [CLAUDE.md](CLAUDE.md) | The assistant's brief and the iron rules |
 | [localisation/](localisation/README.md) | Camera-world sim runs: construction-site world, stereo VO (cuVSLAM), scoring, and the one-drone [keyboard session](localisation/README.md#fly-it-with-the-keyboard-one-drone-sim-only). A sibling of `AirStack/`, never inside CMU's tree |
-| [svg_training/](svg_training/README.md) | Training pipeline for the Strike vs Guard game: thousands of simulated games at once on one GPU (Isaac Lab in docker). Training simulator only; nothing in it flies. A sibling of `AirStack/` |
+| [svg_training/](svg_training/README.md) | Training pipeline for the Strike vs Guard game: thousands of simulated games at once on one GPU (Isaac Lab in docker). Training simulator only; nothing in it flies. STE's own learning track is in [ste_learning/](svg_training/ste_learning/README.md). A sibling of `AirStack/` |
 | [AirStack/](AirStack/) | CMU AirStack snapshot, `yikuan/SVG_ground_control_dev` @ `b21d28c` ([its README](AirStack/README.md)) |
 | [`starling_1_indoor_params.params`](starling_1_indoor_params.params) | The drone's parameter set (QGC export) |
 | [tools/](tools/) · [patches/](patches/) | Sim session launcher, docs checker, the real-drone gamepad check [`tools/real.sh`](tools/README.md#real-drone-the-gamepad-check) · our bug-fix patches |

diff --git a/svg_training/README.md b/svg_training/README.md
@@ -312,8 +312,10 @@ each with a preview that plays in the page: [videos of the NUS port](docs/media/
 
 ## 7. Next steps and open questions
 
-Next on the STE side: a decision on the STE port of NUS's training method after its stage 5.1 FAIL; the STE Guard policy
-against other Strike behaviours, with more seeds and on the Isaac Lab physics drones; two control tests that split the two effects of Test 4.
+Next on the STE side: STE trains its own Guard and Strike policies in STE drone conditions, alongside NUS's route. The
+plan, its first phase and the current status are in [ste_learning/](ste_learning/README.md) (STE's learning track). Its
+first phase, L0, began on 20 November 2026: it settles which game to train and whether Isaac Lab can train it. Work on
+the STE port of NUS's training method is paused after its stage 5.1 FAIL.
 Five questions to NUS:
 
 1. Is any rule that matters missing from the Copy of NUS 2-D game (PyTorch)?
